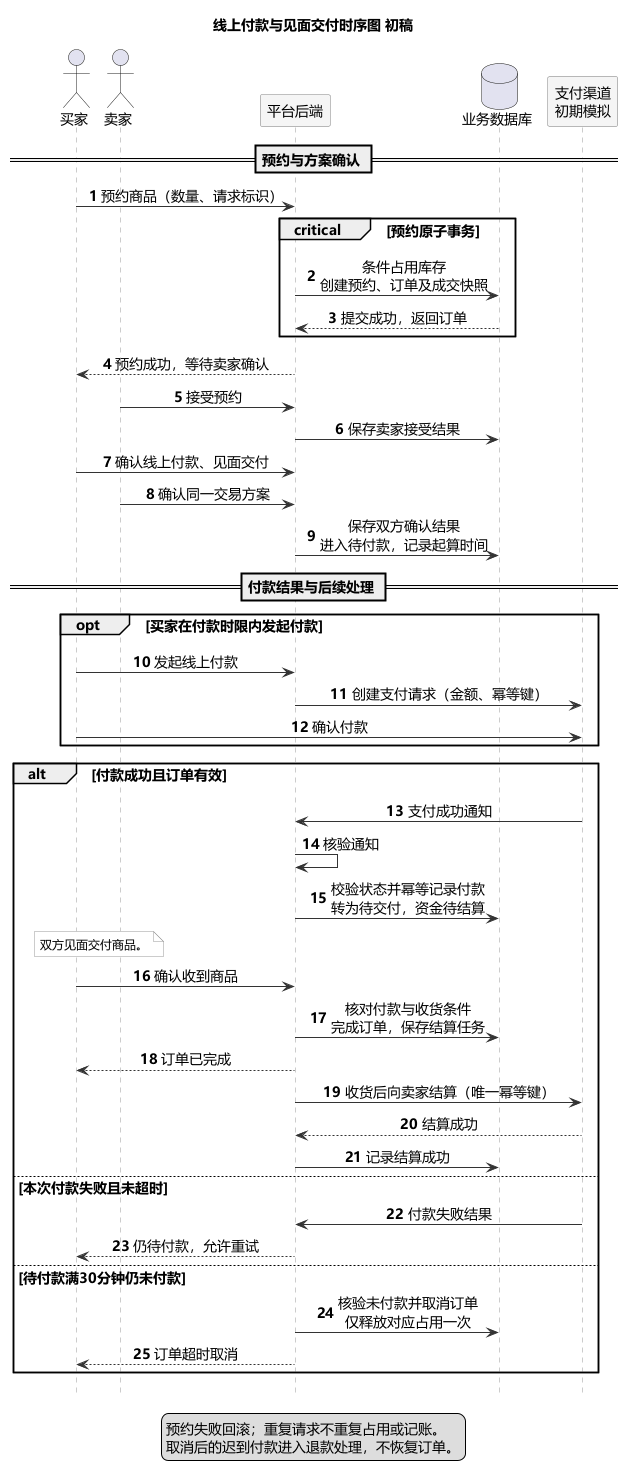
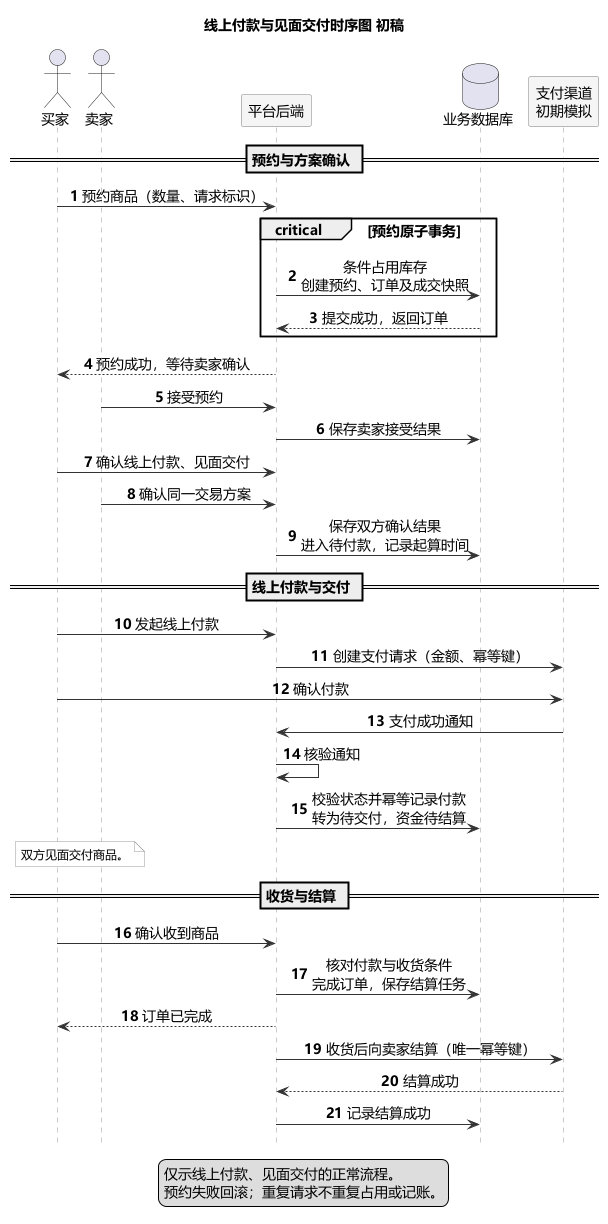
lab2: restore three-stage sequence flow after user review

diff --git a/UML/状态图与时序图初稿说明.md b/UML/状态图与时序图初稿说明.md
@@ -1,6 +1,6 @@
 # 状态图与时序图初稿说明
 
-日期：2026-11-04；版本：订单状态图 v0.3，售后申请状态图初稿 v0.1，时序图 v0.3。
+日期：2026-11-04；版本：订单状态图 v0.3，售后申请状态图初稿 v0.1，时序图 v0.4。
 
 各图沿用实验一需求与现有类图、组件图。符号参考 [PlantUML 状态图](https://plantuml.com/zh/state-diagram) 和 [PlantUML 时序图](https://plantuml.com/zh/sequence-diagram) 官方样例。
 
@@ -42,16 +42,16 @@
 
 ## 交易时序图
 
-对应 `UML时序图.puml`，属于交互性图。选择“售卖商品、线上付款、见面交付”场景，保留买家、卖家、平台后端、数据库和支付渠道五条生命线；v0.3 补充必要付款分支。
+对应 `UML时序图.puml`，属于交互性图。选择“售卖商品、线上付款、见面交付”的正常成功场景，保留买家、卖家、平台后端、数据库和支付渠道五条生命线；v0.4 按用户意见恢复三个主要阶段。
 
 1. 买家提交预约，平台在同一事务内检查当前商品与数量、占用库存、创建预约和订单快照，成功才返回订单。
 2. 卖家接受，双方确认同一付款和交付方案后，平台保存方案并进入待付款，记录起算时间；30分钟从进入该状态起算。
 3. 买家完成渠道付款，平台核验渠道通知和有效订单状态，幂等记录成功付款，进入待交付；此时尚未向卖家结算。
 4. 见面交付后，买家确认收到；平台核对付款与收货条件，完成订单并保存结算任务，才向卖家转交货款。
 
-付款部分只增加一个 `opt` 和一个三段 `alt`：买方实际发起付款时才创建支付请求；有效付款成功继续交付与结算，本次付款失败且未超时则仍待付款、允许重试，满30分钟仍未付款则由后端超时任务校验并取消，仅释放占用一次。超时处理不依赖买家是否点击付款。
+当前图以“预约与方案确认—线上付款与交付—收货与结算”分段，保留21条消息和两行简短图例，移除付款 `opt`、`alt` 框。后两阶段展示付款有效后的正常路径，便于连续阅读。
 
-交付、收货和结算全部位于有效付款成功分支内，失败和取消分支不会继续执行它们。付款通知与超时任务的冲突由数据库当前状态和原子条件更新处理，不能仅凭前端页面或之前的一次查询决定结果。
+异常规则在文字中保留：本次付款失败且未超时仍待付款、允许重试；进入待付款满30分钟仍未付款，由后端超时任务校验并取消，仅释放占用一次，不依赖买家是否点击付款。失败或取消不能继续交付和结算。付款通知与超时任务的冲突由数据库当前状态和原子条件更新处理。
 
 平台后端生命线是现有组件图中应用入口及其协调模块的概括，不代表删除模块划分。图中只保留关键数据库交互，身份核验、日志和其他普通保存不逐条展开。
 `critical` 表达需要整体保护的预约事务；数据库实现仍须依靠事务、条件更新和唯一约束，图形本身不保证并发正确。
@@ -66,9 +66,9 @@ v0.2 按用户意见将图底部三行长说明精简为两行，保留场景范
 
 `opt` 表示满足条件才执行的一段交互，`loop` 表示按条件重复；退款或结算重试仍须防止重复资金效果。交易方案不同也可用 `alt`，但售卖或赠送须依据订单原快照，不能临时改变商品交易类型。
 
-v0.2 在私有工作目录生成过局部分支示例，未替换正式图。用户随后要求补充必要分支并保持简洁，v0.3 将付款成功、失败和超时纳入正式图，未增加新的参与者，也未展开代交、售后、重试回环与结算失败的独立片段；相关规则继续按需求保留。
+v0.2 在私有工作目录生成局部分支示例；v0.3 按用户要求将付款成功、失败和超时加入正式图。用户随后认为分支版较乱，偏好初版的三阶段展示，v0.4 恢复正常主线，失败、超时、迟到付款及结算失败规则由文字说明补充。分支版保留在 Git 提交 `f6fd2b4` 中。
 
 ## 初稿审查与版本
 
-售后申请图仍为 AI 初稿。时序图经用户审阅后精简说明并补充必要付款分支，当前为 v0.3 讨论稿；订单状态图已在 v0.3 澄清商品交易类型与订单方案的区别。不预先声称用户已经最终验收各图。
+售后申请图仍为 AI 初稿。时序图经用户比较后恢复三阶段正常流程，当前为 v0.4 讨论稿；订单状态图已在 v0.3 澄清商品交易类型与订单方案的区别。不预先声称用户已经最终验收各图。
 源文件均可独立预览，同时导出 PNG 与 SVG。订单和售后状态图及简要说明同步进入报告，时序图仍单独保留待讨论。

diff --git a/AI使用记录/实验二_AI使用记录.md b/AI使用记录/实验二_AI使用记录.md
@@ -179,3 +179,11 @@
 - 优点分析：成功、失败和取消的后续行为直接区分，没有增加角色或重复完整交易流程。
 - 局限分析：图面比单一主线增长；付款重试、迟到付款退款、代交和售后仍不逐条展开，说明中保留相关约束，不能据简图删除功能。
 - 验证与归属：PlantUML 语法检查，导出并目视检查 PNG、SVG；原稿与精简稿保留在 Git。用户提出调整方向，AI 完成具体编辑，结果仍待用户审查，Word 报告本轮未改写。
+
+## 2026-11-04 时序图恢复三阶段展示 v0.4
+
+- 使用场景：用户比较分支版后认为图面仍较乱，明确偏好初版的三个主要阶段。
+- 修改结果：AI 移除新增付款分支框，恢复“预约与方案确认—线上付款与交付—收货与结算”，保留21条主要消息、待付款起算时间、状态核验和精简图例。
+- 人工判断与取舍：用户依据实际图面选择清晰的正常主线；失败重试、30分钟超时、迟到付款退款及结算失败规则在说明中保留。展示范围精简不改变业务要求。
+- 优缺点分析：阶段划分更直观、图面缩短；异常交互需要结合文字阅读，无法仅凭本图逐条查看所有路径。
+- 验证与归属：AI 重新导出并检查图像，分支版保留于 Git 提交 `f6fd2b4`；用户确定展示方式，AI 执行修改，Word 报告本轮未改写。
